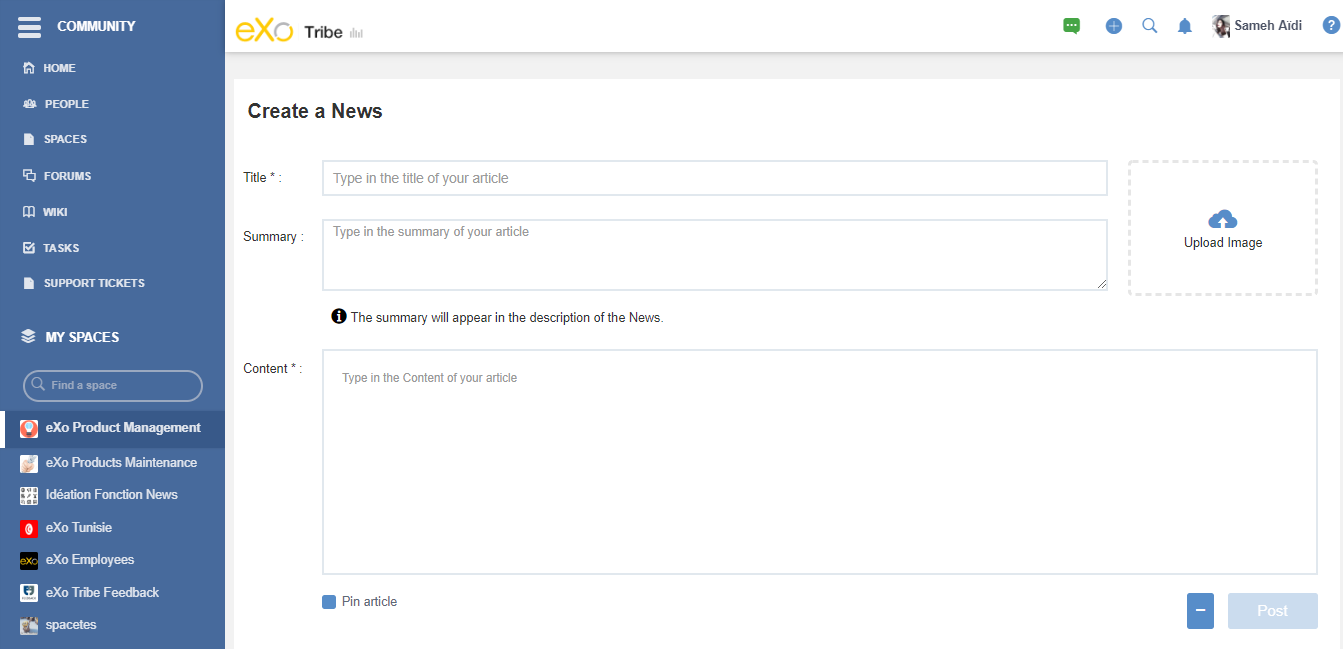
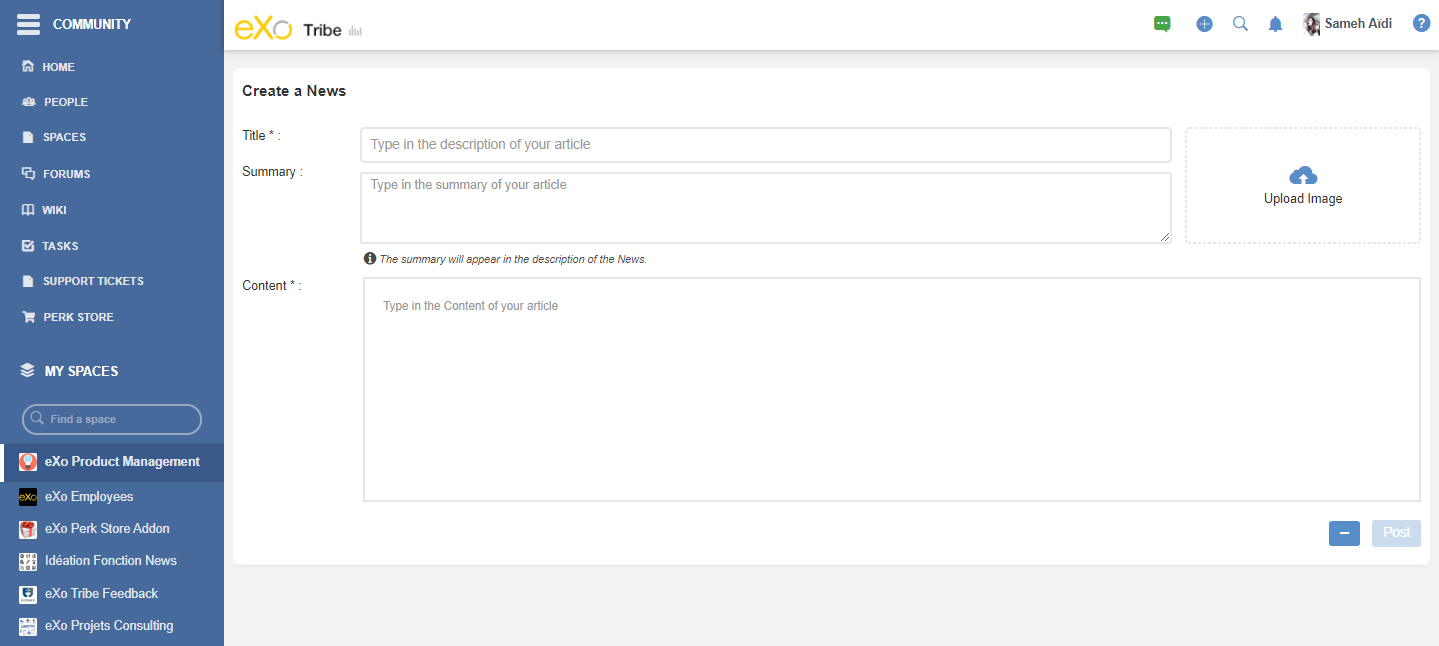
Pin News documentation V1

diff --git a/docs/GettingStarted.rst b/docs/GettingStarted.rst
@@ -1244,6 +1244,45 @@ You can check that the action has been done successfully by connecting to the de
 |image167|
 
 
+Pinning a News in the home page
+-------------------------------
+
+If you have the membership "publisher" in the platform users group, you are allowed to pin articles in home page. This action is allowed from three locations.
+
+
+1- Pinning a News from creation form : 
+
+From simple and complete creation forms, a checkbox "Pin article" is available. 
+
+|image168|
+
+When you type in fields with the article details, tick "Pin article" checkbox than click on "post" button a confirmation message appears.
+
+|image169|
+
+By confirming the action the article is posted to space's activity stream and automatically pinned to home page News bloc. 
+
+
+2- Pinning a News from activity stream : the "pin article" option is available from the three dots of the posted article activity.
+
+|image170|
+
+When you choose this option, a confirmation popup appears.
+
+|image169|
+
+A success message appears after confirming the action:
+
+|image171|
+
+
+*3- Pinning a News from News details*
+
+
+You may display the home page to verify that the news is available in the appropriate bloc.
+
+|image172|
+
 		
 .. _Formatting-toolbar:
 
@@ -2077,4 +2116,13 @@ to display the original timestamp of the comment.
 .. |image165| image:: images/sharenews/popup_share.png
 .. |image166| image:: images/sharenews/shared_message2.png
 .. |image167| image:: images/sharenews/shared_news2.png
+.. |image168| image:: images/sharenews/pin_checkbox.png
+.. |image169| image:: images/sharenews/confirm_pin.png
+.. |image170| image:: images/sharenews/pin_activity.png
+.. |image171| image:: images/sharenews/success_pin.png
+.. |image172| image:: images/sharenews/bloc_news.png
+
+
+
+
 
